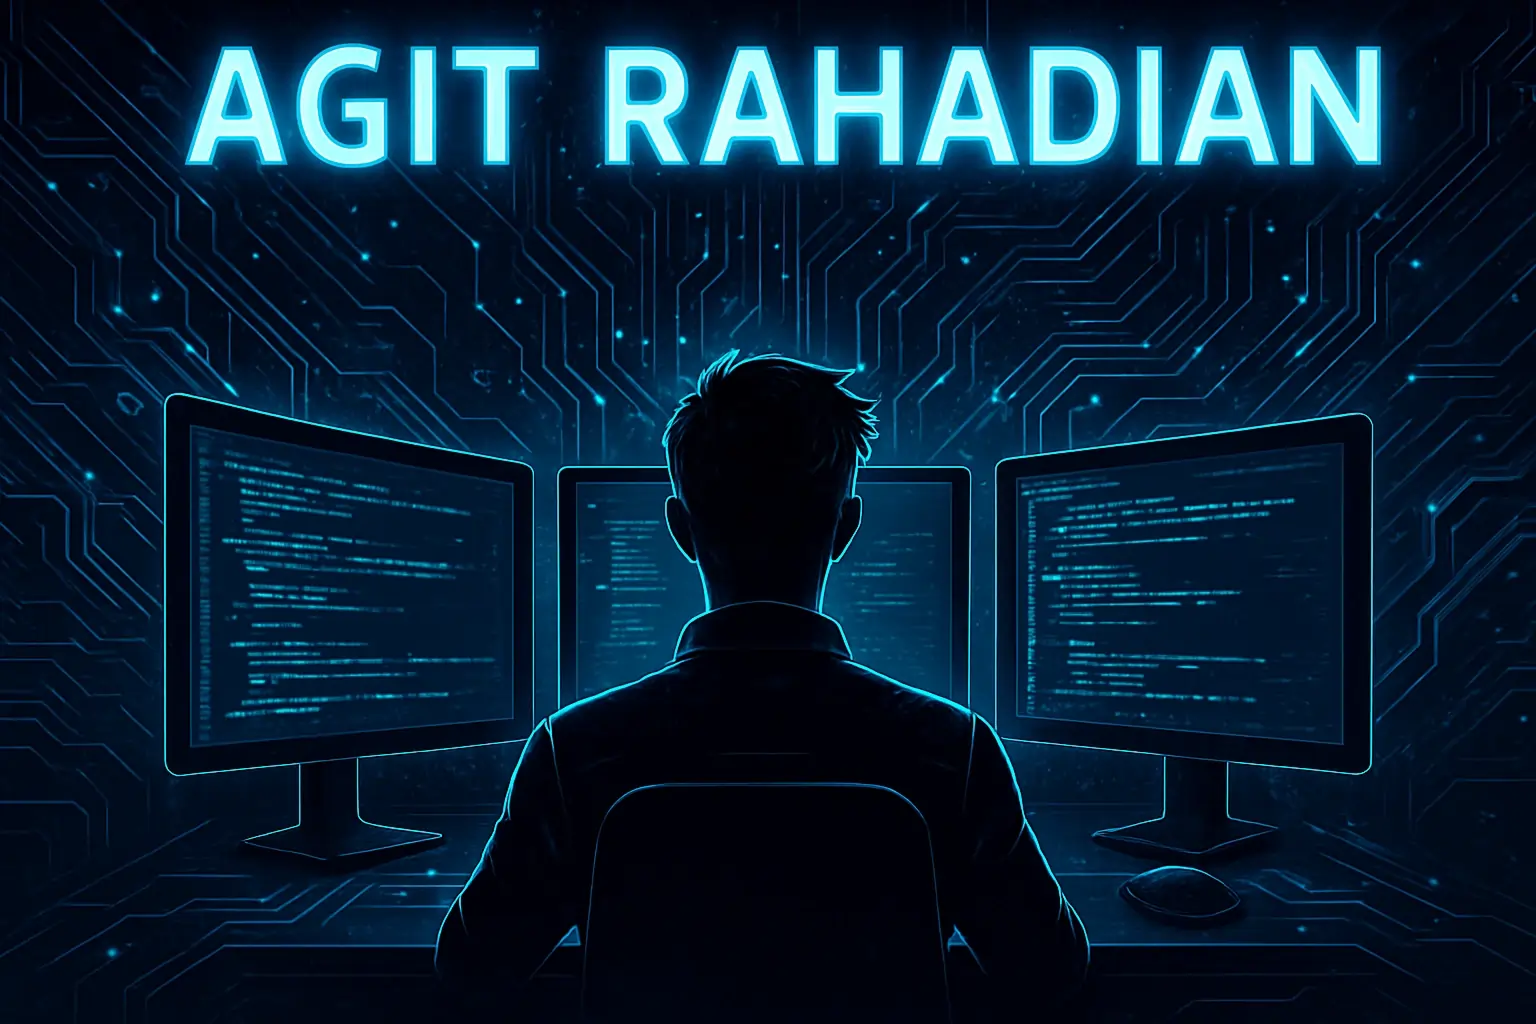
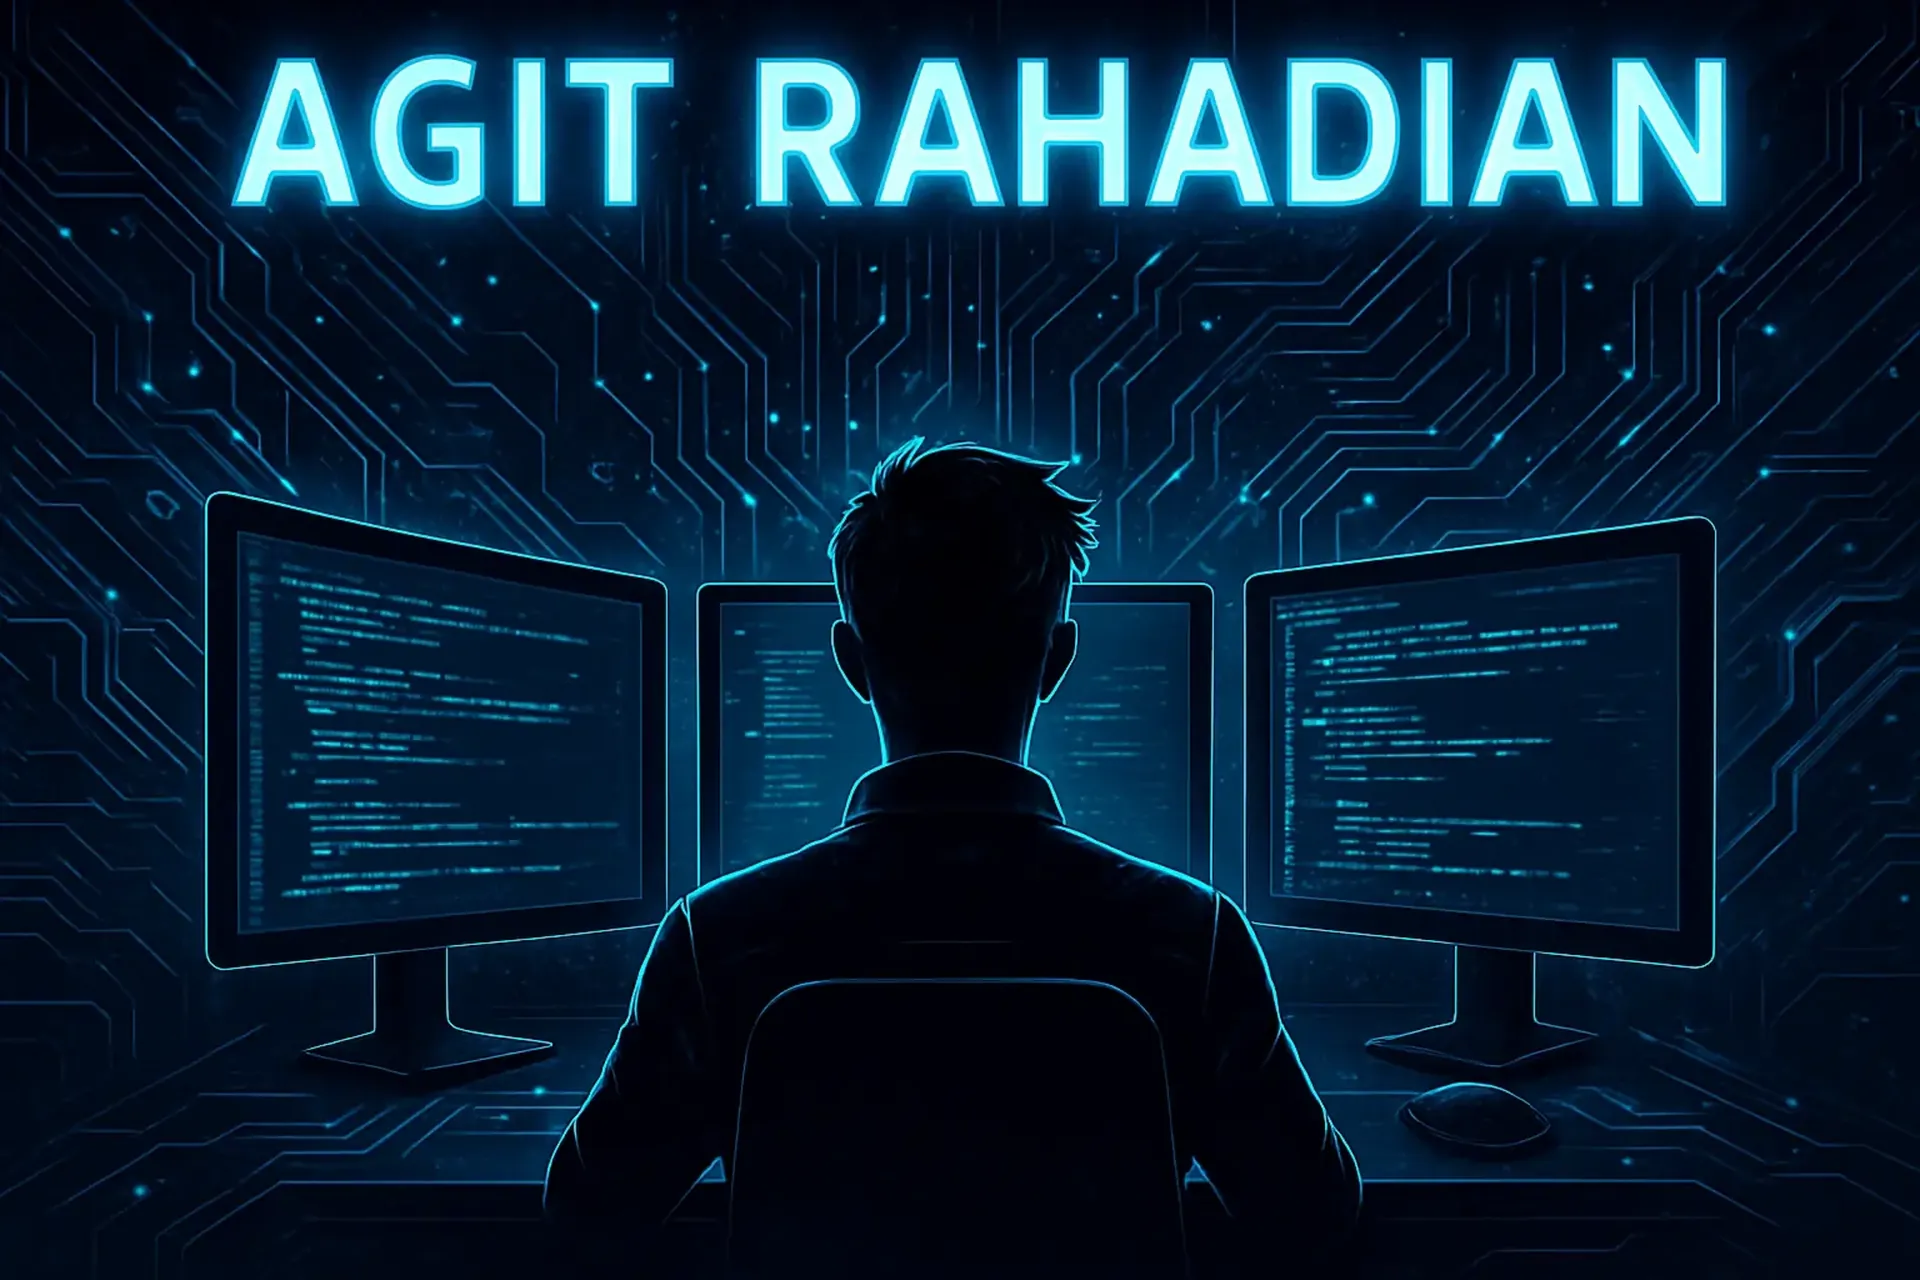
update

diff --git a/src/components/Header.jsx b/src/components/Header.jsx
@@ -13,8 +13,7 @@ import '../styles/Header.css';
 
 function Header() {
   return (
-    <header className="header" style={{ backgroundImage: `url(${background})` }}>
-      {/* Metadata untuk SEO */}
+    <header className="header">
       <Helmet>
         <title>Agit Rahadian - Full-Stack Web Developer</title>
         <meta name="description" content="Hai, saya Agit Rahadian, seorang Full-Stack Web Developer yang fokus menciptakan solusi digital praktis dan user-friendly." />
@@ -25,19 +24,18 @@ function Header() {
         <meta property="og:type" content="website" />
         <meta property="og:url" content="https://agitrahadian.my.id" />
         <meta property="og:image" content="https://agitrahadian.my.id/assets/profile-picture.webp" />
+        <link rel="preload" as="image" href={background} />
       </Helmet>
 
       <div className="header-jumbotron">
-        <picture>
-          <source srcSet={profilepicture} type="image/webp" />
-          <img
-            src={profilepicture}
-            alt="Agit Rahadian"
-            className="profile-img"
-            width="180"
-            height="180"
-          />
-        </picture>
+        <img
+          src={profilepicture}
+          alt="Agit Rahadian"
+          className="profile-img"
+          width="180"
+          height="180"
+          loading="eager"
+        />
 
         <h1>Agit Rahadian</h1>
         <p className="role">Programmer - Web Developer - Creator</p>
@@ -53,10 +51,11 @@ function Header() {
 
         <div className="contact-buttons">
           <a
-            href="https://mail.google.com/mail/?view=cm&fs=1&to=agitrahadian140702@gmail.com&su=Permintaan Kerja Sama atau Jasa Pembuatan Website&body=Halo Agit,%0D%0A%0D%0ASaya menemukan portofolio Anda dan tertarik untuk berdiskusi lebih lanjut mengenai peluang kerja sama atau kebutuhan pengembangan website.%0D%0ABerikut adalah rincian singkat kebutuhan saya:%0D%0A-%20Jenis%20proyek:%20%5C%28contoh:%20Website%20Profil%20Sekolah,%20Aplikasi%20Internal,%20dsb%5C%29%0D%0A-%20Waktu%20pengerjaan:%0D%0A-%20Anggaran%20perkiraan:%0D%0A%0D%0AMohon hubungi saya kembali untuk diskusi lebih lanjut.%0D%0ATerima kasih."
+            href="mailto:agitrahadian140702@gmail.com?subject=Permintaan Kerja Sama atau Jasa Pembuatan Website"
             target="_blank"
             rel="noopener noreferrer"
             className="contact-btn email-btn"
+            aria-label="Kirim Email ke Agit Rahadian"
           >
             <FaEnvelope /> Kirim Email
           </a>
@@ -65,6 +64,7 @@ function Header() {
             target="_blank"
             rel="noopener noreferrer"
             className="contact-btn wa-btn"
+            aria-label="WhatsApp Agit Rahadian"
           >
             <FaPhone /> WhatsApp Saya
           </a>
@@ -76,7 +76,7 @@ function Header() {
         </div>
 
         <div className="education-info">
-          <h2>Pendidikan</h2>
+          <h4>Pendidikan</h4>
           <ul>
             <li>SD Sindangsari 2</li>
             <li>SMP Negeri 1 Leuwigoong</li>

diff --git a/src/styles/Header.css b/src/styles/Header.css
@@ -1,13 +1,13 @@
-/* Variabel CSS untuk konsistensi */
 :root {
   --primary-color: #aa392d;
   --secondary-color: #222831;
-  --text-color: #fff; /* Warna teks putih */
+  --text-color: #fff;
   --font-family: "Kanit", sans-serif;
 }
 
 .header {
-  background-image: url('../assets/background.webp'); /* Ganti ke WebP dan path sesuai */
+  background-color: #222831;
+  background-image: url('../assets/background.webp');
   background-position: center;
   background-size: cover;
   background-repeat: no-repeat;
@@ -15,7 +15,7 @@
   font-family: var(--font-family);
   letter-spacing: 2px;
   color: #fff;
-  text-shadow: 0 0 4px #000;
+  text-shadow: 0 0 2px #000;
   overflow: hidden;
   min-height: 100vh;
   display: flex;
@@ -27,12 +27,12 @@
   content: "";
   position: absolute;
   inset: 0;
-  background: rgba(0, 0, 0, 0.6);
+  background: rgba(0, 0, 0, 0.45);
   z-index: 0;
 }
 
 .header-jumbotron {
-  position: relative; /* Di atas overlay */
+  position: relative;
   z-index: 1;
   text-align: center;
   max-width: 800px;
@@ -222,19 +222,25 @@
     background-position: center;
   }
   .profile-img {
-    width: 150px;
-    height: 150px;
+    width: 120px;
+    height: 120px;
+  }
+  .header-jumbotron {
+    padding: 10px;
   }
   .header-jumbotron h1 {
-    font-size: 2.2rem;
+    font-size: 1.5rem;
   }
   .role {
-    font-size: 1.2rem;
+    font-size: 1rem;
+  }
+  .bio {
+    font-size: 0.9rem;
   }
   .socialMedia a {
-    width: 60px;
-    height: 60px;
-    font-size: 26px;
+    width: 50px;
+    height: 50px;
+    font-size: 20px;
   }
 }
 
@@ -245,13 +251,13 @@
     background-position: center;
   }
   .header-jumbotron h1 {
-    font-size: 1.8rem;
+    font-size: 1.1rem;
   }
   .bio {
-    font-size: 0.9rem;
+    font-size: 0.8rem;
   }
   .contact-btn {
-    padding: 10px 20px;
-    font-size: 0.9rem;
+    padding: 8px 12px;
+    font-size: 0.8rem;
   }
 }
